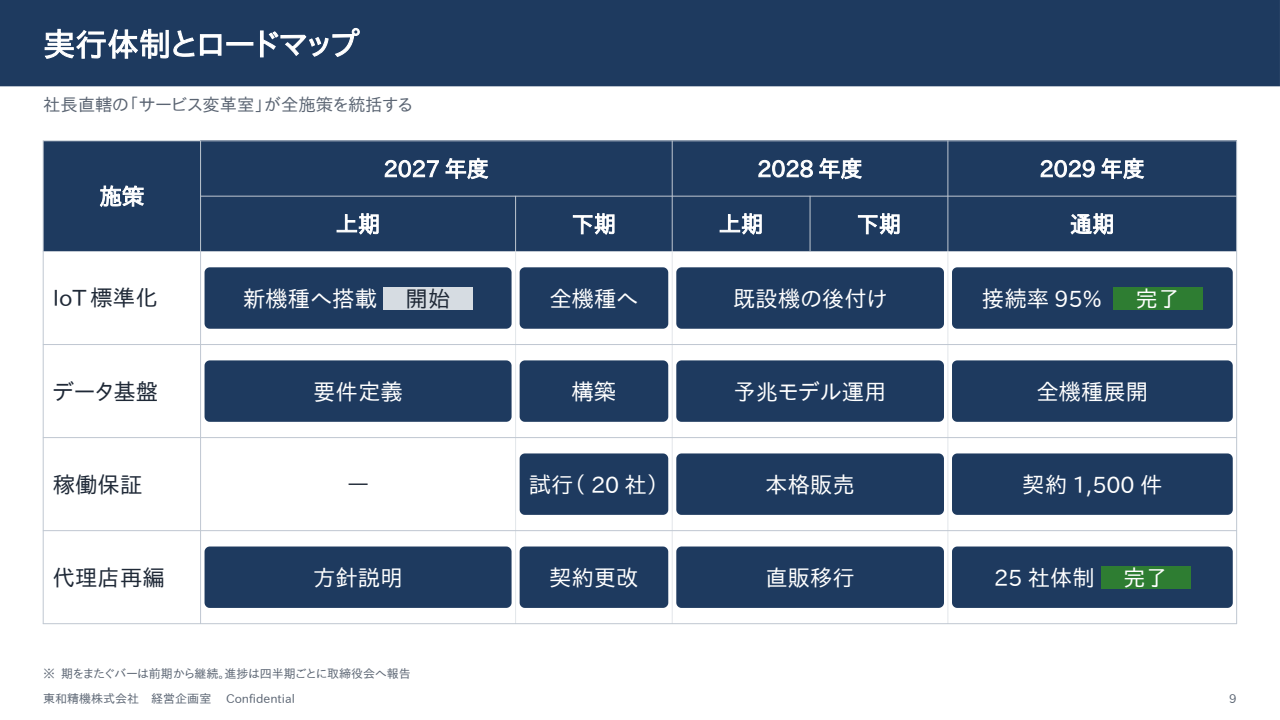
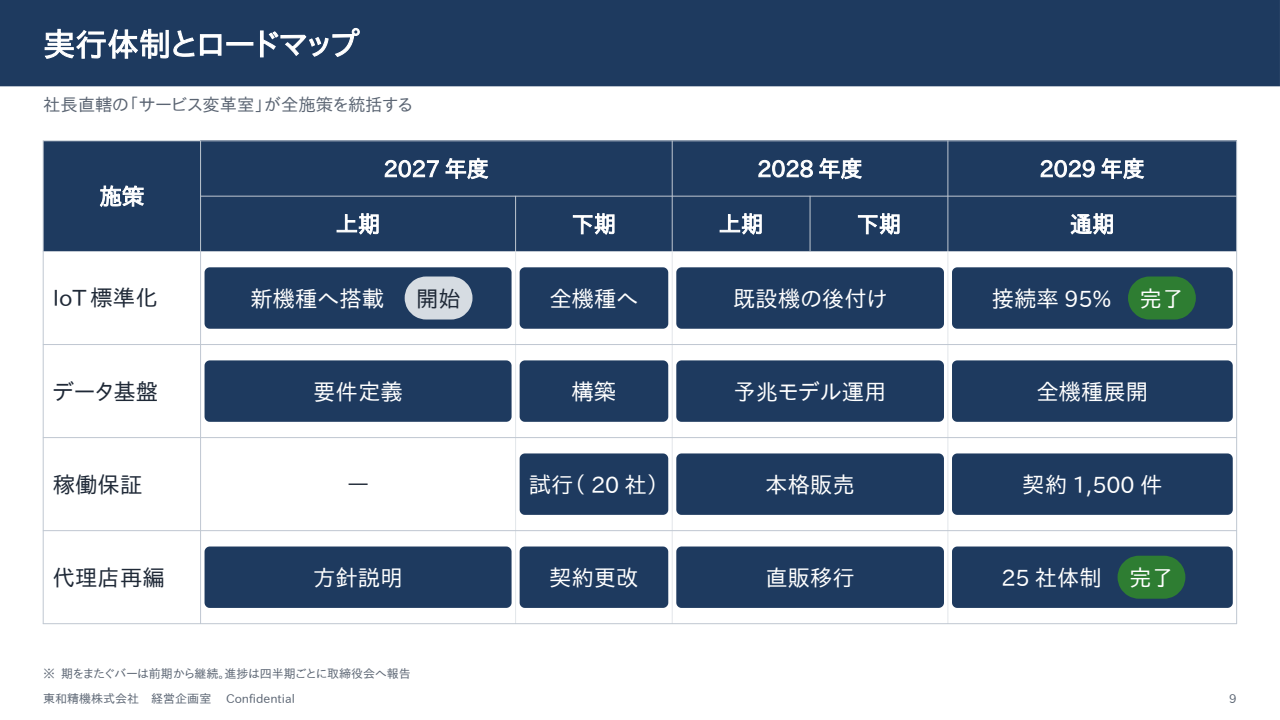
Gallery and docs after wave 6 (gantt bar pills)
Claude-Session: https://claude.ai/code/session_01PyiNTzWe1feLLzDoduxruZ

Changed region(s): [[0.7812, 0.7639, 0.9375, 0.8556], [0.75, 0.3667, 0.9375, 0.4583], [0.1875, 0.3667, 0.375, 0.4583]]

diff --git a/docs/DAILY_LOG.md b/docs/DAILY_LOG.md
@@ -133,7 +133,7 @@ Run goal:
 - Next: L3 gate on content-rich decks (owner: accept 20 at 4?), JP orphans where LibreOffice and the model disagree, Gantt
   equal time columns after the last growth pass, AC4 owner decision.
 
-## 2026-10-06 (run 9, chained manual, L3 leftovers + re-score, 09:19–12:20 UTC)
+## 2026-10-06 (run 9, chained manual, L3 leftovers + re-score, 09:19–12:40 UTC)
 Run goal:
 - [x] Gantt time columns even, decided after the last text-growth pass (20 s10 even; 16 s9 one badge column pinned)
 - [x] Tighter ruled panels (11 s3 callout follows the list, panel ends under it); tables beside charts reach the chart bottom (20 s3)
@@ -141,11 +141,11 @@ Run goal:
 - [x] CJK orphans: render-only viewer model squeeze + BudouX phrase breaks ("点検技術者の / 平均年齢 54歳")
 - [x] Example with a chevron row matching its table's columns (examples/22, English launch plan)
 - [ ] L3 re-scored twice (same prompt): 20 = 4 then 3.5, 22 = 4 "yes (nearly)", others 3.5 → gate still open; AC4 unchanged
-- Done: 5 waves, 11 Sonnet coding agents + 2 review + 1 eval agent. Also native table pills, Latin/brand-deck fill (tables wrap-grow,
+- Done: 6 waves, 12 Sonnet coding agents + 2 review + 1 eval agent. Also native table pills, Latin/brand-deck fill (tables wrap-grow,
   cards hug, sparse rows centred), sparse-chart axes and segment labels, lone chart text scale, lone chevron cap, tree boxes hug
   content, first-slide long taglines become covers, `min=` axes use the visible span, orphan binding never breaks a word.
 - Metrics: tests 1913 passed (1780 at start); q3 155 tokens = 30% of python-pptx, markup 13–27%, design paths 35/38% (unchanged);
   round trip 119/122 (3 pre-existing); smoke c05 skill-only 3 calls, 0 images, accepted, cost unchanged.
 - Problems: smoke run first "rejected" by invisible U+2060 joiners (acceptance now strips them; Ctrl+F issue open); a relayed
   owner-decision message from another session was not applied (permission check) → owner to confirm.
-- Next: gantt bar badges as pills, callout clearance, dense table row height/headers, small-delta waterfalls, U+2060 → phrase packing.
+- Next (wave 6 added gantt bar pills, 1917 tests): callout clearance, dense table row height/headers, small-delta waterfalls, U+2060 → phrase packing.

diff --git a/docs/PLAN.md b/docs/PLAN.md
@@ -572,12 +572,13 @@ Goal: run-8 leftovers (L3) then a same-prompt re-score; finish by 16:30 UTC; AC4
 - **Wave 5 status:** sparse-chart axes/labels, segment labels scale + hide, line axes above zero, note inset; tree boxes hug
   content (2pt connectors), ruled panels end under their note, card rows aligned; lone chart text scales with the frame,
   lone chevron rows capped. 1913 tests. Smoke c05 skill-only: 3 calls, 0 images, accepted, cost above start 20.0k (19.8–20.0k).
+- **Wave 6 status:** gantt bar badges are native pills inside the bar (16 s9, 19 s4, 20 s10). 1917 tests.
 - **Re-score 2 (same prompt):** 11 = 3.5, 16 = 3.5, 19 = 3.5, 20 = 3.5, 22 = 4 "yes (nearly)" (reviewer variance: 20 was 4 in
   re-score 1). Top asks: dead space in panels, flat badge tags inside rounded gantt bars, tall one-line table rows / 9pt
   headers on dense slides, chart callouts touching bars, small-delta waterfalls, covers.
 
 ## Leftovers for the next run
-- [ ] L3: gantt bar badges as native pills (like table pills); callout clearance from bars (20 s3/s8, 22 s4); dense table
+- [ ] L3: callout clearance from bars (20 s3/s8, 22 s4); dense table
       rows too tall for one line + 9pt headers (20 s3/s5/s7); waterfall with small deltas (break or delta mode); covers
 - [ ] U+2060 number+unit joiners break Ctrl+F/copy in PowerPoint → replace by phrase packing for CJK where possible
 - [ ] 16 s9: a badge in the first gantt column still pins that column wider than the rest

diff --git a/docs/LESSONS.md b/docs/LESSONS.md
@@ -185,3 +185,4 @@ One line per item: `[area] problem → fix`. Newest at the bottom. Read before s
 - [render] Table badges as text highlights are square and grey-on-grey in LibreOffice → badge cells become native `Pill` roundRect shapes (`table_pills`) with column-shared width; pill text is `wrap="none"` (a wider substitute CJK font would wrap); the golden tolerance (8/255) hides such changes, so regenerate those goldens by hand. Tests need `deck_theme(deck)` for `style:` tokens; `get_theme` ignores them.
 - [render] Sparse charts (`labels=on`, ≤ 4 categories) drop the value axis by default (`axis=on` restores it); a hidden axis needs a max that hugs the data (`tight`) or the plot leaves an empty band. The importer must mirror every automatic axis/max/label rule, or round trips grow `axis=`/`max=` options.
 - [eval] Run-9 smoke c05 was "rejected (11 failed)" with every string visibly present: U+2060 number+unit joiners (run 8) live in the saved text, so exact-text checks fail → `agent_accept` strips U+2060/U+FEFF. The same joiners break Ctrl+F / copy in PowerPoint ("2026年" does not match "2026年") — open product issue: prefer phrase packing (bmk breaks) over joiners for CJK.
+- [layout] Gantt bar badges reuse the table-pill path (`_pill_style` passed to `expand_gantt`); label + pill are centred as one group via right padding; tests matching cell text must strip U+2060 and match `Pill N` names with startswith.

diff --git a/README.md b/README.md
@@ -53,7 +53,7 @@ Windows: `slidemark preview` / `review --png` tự tìm LibreOffice trong `C:\Pr
 ## Ảnh slide mẫu (cập nhật hằng ngày)
 
 <!-- gallery:start -->
-Cập nhật: 2026-10-06 · commit `b3e6a76` · tạo tự động bởi `scripts/gallery.py`.
+Cập nhật: 2026-10-06 · commit `ec8652a` · tạo tự động bởi `scripts/gallery.py`.
 
 ### Cơ bản: tiêu đề, danh sách, box, bảng, biểu đồ
 
